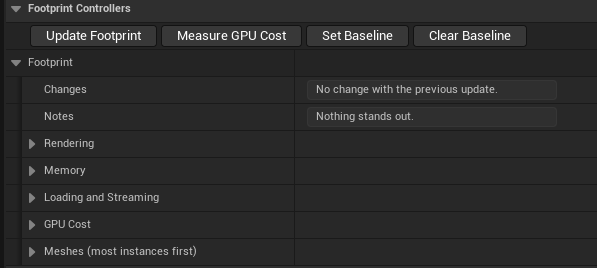
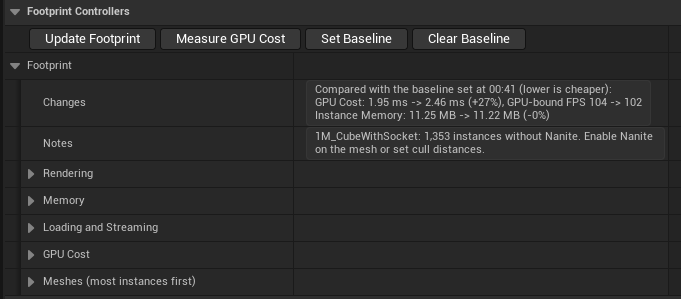
Guide: Footprint screenshots per group

diff --git a/docs/guide.html b/docs/guide.html
@@ -170,13 +170,28 @@
 <p><strong>Jitter</strong> moves each cover mesh randomly along the surface. <strong>Position Offset</strong> Min / Max: X and Y slide along the surface, Z lifts or sinks. <strong>Absolute Rotation</strong> ignores the surface's rotation. <strong>Rotation</strong> and <strong>Scale</strong> Min / Max randomize each mesh.</p>
 <p>Optimize &gt; Cover Mesh by Intent holds the cull distances, decals, wind, ray tracing, shadow and <strong>Collision</strong> switches for every entry of the layer. Cover meshes have no collision unless Collision is on.</p>
 <h2 id="footprint">Footprint</h2>
-<figure><img src="images/footprint.png" alt="Footprint Controllers: the four buttons, then Changes, Notes and the Rendering, Memory, Loading and Streaming, GPU Cost and Meshes groups." loading="lazy"><figcaption>Footprint Controllers: the four buttons, then Changes, Notes and the Rendering, Memory, Loading and Streaming, GPU Cost and Meshes groups.</figcaption></figure>
+<figure><img src="images/footprint.png" alt="Footprint after adding a mesh: Changes compares with the baseline (GPU Cost up 27%), and Notes names the mesh without Nanite." loading="lazy"><figcaption>Footprint after adding a mesh: Changes compares with the baseline (GPU Cost up 27%), and Notes names the mesh without Nanite.</figcaption></figure>
 <p>The Footprint section, under Footprint Controllers, shows what the tool made and what it costs. It updates by itself after every generate. <strong>Notes</strong> and <strong>Changes</strong> sit at the top: Notes flags likely problems, and Changes shows how far each number moved.</p>
 <h3 id="buttons">Buttons</h3>
 <div class="table"><table><thead><tr><th>Button</th><th>What it does</th></tr></thead><tbody><tr><td>Update Footprint</td><td>Recounts now.</td></tr><tr><td>Measure GPU Cost</td><td>Renders a couple of seconds from the current viewport with the tool shown, then hidden, and records the difference. Measure from the same spot before and after a change.</td></tr><tr><td>Set Baseline</td><td>Remembers the current numbers. Changes then compares every later update to them, which suits an optimize pass.</td></tr><tr><td>Clear Baseline</td><td>Forgets the baseline; Changes compares with the previous update again.</td></tr></tbody></table></div>
 <h3 id="the-numbers">The numbers</h3>
-<div class="table"><table><thead><tr><th>Group</th><th>Number</th><th>What it means</th></tr></thead><tbody><tr><td>Rendering</td><td>Instances</td><td>Mesh instances this tool spawned.</td></tr><tr><td>Rendering</td><td>Mesh Components</td><td>About one per mesh and settings combination; each is at least one draw call per pass. Fewer is better.</td></tr><tr><td>Rendering</td><td>Unique Meshes</td><td>Different mesh assets in use.</td></tr><tr><td>Rendering</td><td>Nanite / Non-Nanite Instances</td><td>Nanite stays cheap when dense. Large non-Nanite counts are the usual performance trap: enable Nanite or add cull distances.</td></tr><tr><td>Rendering</td><td>Non-Nanite Triangles (LOD 0)</td><td>The worst case up close.</td></tr><tr><td>Rendering</td><td>Shadow-Casting, WPO-Animated, Ray-Traced Instances</td><td>How many instances the matching Optimize switches leave on.</td></tr><tr><td>Rendering</td><td>Decal Actors, Other Spawned Actors</td><td>Each is a full actor. Keep decals in the hundreds, not thousands.</td></tr><tr><td>Memory</td><td>Instance Memory (MB)</td><td>Transforms, render data and collision bodies for these instances.</td></tr><tr><td>Memory</td><td>Instances With Collision</td><td>Each carries a physics body. Optimize &gt; No Collision removes them.</td></tr><tr><td>Memory</td><td>Mesh Assets (MB)</td><td>The mesh assets used, shared with anything else using them. Textures and materials are not counted.</td></tr><tr><td>Loading and Streaming</td><td>Instance Data on Disk (MB, est.)</td><td>Roughly what the level has to read when this tool loads.</td></tr><tr><td>Loading and Streaming</td><td>Mesh Files (MB, editor)</td><td>Mesh asset file sizes in the editor. Cooked builds are usually smaller.</td></tr><tr><td>Loading and Streaming</td><td>Tool Size (m)</td><td>Width and length of everything spawned. With World Partition, one big actor loads all its instances at once.</td></tr><tr><td>Loading and Streaming</td><td>Spatially Loaded, PCG Partitioned</td><td>Whether World Partition streams the tool by distance, and whether the PCG output is split into cells.</td></tr><tr><td>Loading and Streaming</td><td>Last Generate (s)</td><td>How long the last full generate took in the editor.</td></tr><tr><td>GPU Cost</td><td>GPU Cost (ms), Share of Frame (%), FPS With / Without Tool</td><td>Set by Measure GPU Cost. <strong>Measured</strong> says when, and whether the tool has changed since.</td></tr></tbody></table></div>
-<p><strong>Meshes (most instances first)</strong> lists the heaviest meshes, so you know where to start optimizing.</p>
+<h4 id="rendering">Rendering</h4>
+<figure><img src="images/footprint-rendering.png" alt="Rendering: instance, component, mesh, Nanite, triangle, shadow, wind, ray tracing and actor counts." loading="lazy"><figcaption>Rendering: instance, component, mesh, Nanite, triangle, shadow, wind, ray tracing and actor counts.</figcaption></figure>
+<div class="table"><table><thead><tr><th>Number</th><th>What it means</th></tr></thead><tbody><tr><td>Instances</td><td>Mesh instances this tool spawned.</td></tr><tr><td>Mesh Components</td><td>About one per mesh and settings combination; each is at least one draw call per pass. Fewer is better.</td></tr><tr><td>Unique Meshes</td><td>Different mesh assets in use.</td></tr><tr><td>Nanite / Non-Nanite Instances</td><td>Nanite stays cheap when dense. Large non-Nanite counts are the usual performance trap: enable Nanite or add cull distances.</td></tr><tr><td>Non-Nanite Triangles (LOD 0)</td><td>The worst case up close.</td></tr><tr><td>Shadow-Casting, WPO-Animated, Ray-Traced Instances</td><td>How many instances the matching Optimize switches leave on.</td></tr><tr><td>Decal Actors, Other Spawned Actors</td><td>Each is a full actor. Keep decals in the hundreds, not thousands.</td></tr></tbody></table></div>
+<h4 id="memory">Memory</h4>
+<figure><img src="images/footprint-memory.png" alt="Memory: Instance Memory, Instances With Collision and Mesh Assets." loading="lazy"><figcaption>Memory: Instance Memory, Instances With Collision and Mesh Assets.</figcaption></figure>
+<div class="table"><table><thead><tr><th>Number</th><th>What it means</th></tr></thead><tbody><tr><td>Instance Memory (MB)</td><td>Transforms, render data and collision bodies for these instances.</td></tr><tr><td>Instances With Collision</td><td>Each carries a physics body. Optimize &gt; No Collision removes them.</td></tr><tr><td>Mesh Assets (MB)</td><td>The mesh assets used, shared with anything else using them. Textures and materials are not counted.</td></tr></tbody></table></div>
+<h4 id="loading-and-streaming">Loading and Streaming</h4>
+<figure><img src="images/footprint-loading.png" alt="Loading and Streaming: disk size, mesh files, tool size, streaming and the last generate time." loading="lazy"><figcaption>Loading and Streaming: disk size, mesh files, tool size, streaming and the last generate time.</figcaption></figure>
+<div class="table"><table><thead><tr><th>Number</th><th>What it means</th></tr></thead><tbody><tr><td>Instance Data on Disk (MB, est.)</td><td>Roughly what the level has to read when this tool loads.</td></tr><tr><td>Mesh Files (MB, editor)</td><td>Mesh asset file sizes in the editor. Cooked builds are usually smaller.</td></tr><tr><td>Tool Size (m)</td><td>Width and length of everything spawned. With World Partition, one big actor loads all its instances at once.</td></tr><tr><td>Spatially Loaded, PCG Partitioned</td><td>Whether World Partition streams the tool by distance, and whether the PCG output is split into cells.</td></tr><tr><td>Last Generate (s)</td><td>How long the last full generate took in the editor.</td></tr></tbody></table></div>
+<h4 id="gpu-cost">GPU Cost</h4>
+<figure><img src="images/footprint-gpu.png" alt="GPU Cost after Measure GPU Cost: the tool&#x27;s cost in ms, its share of the frame, and frame time and FPS with and without it." loading="lazy"><figcaption>GPU Cost after Measure GPU Cost: the tool's cost in ms, its share of the frame, and frame time and FPS with and without it.</figcaption></figure>
+<p>Filled in by <strong>Measure GPU Cost</strong>. <strong>GPU Cost (ms)</strong> is the difference between <strong>GPU Frame With Tool</strong> and <strong>GPU Frame Without Tool</strong>, and <strong>Share of Frame</strong> is that difference as a percent of the frame. <strong>FPS With / Without Tool</strong> are the GPU-bound frame rates. <strong>Measured</strong> says when and from where, and whether the tool has changed since.</p>
+<h4 id="meshes-most-instances-first">Meshes (most instances first)</h4>
+<figure><img src="images/footprint-meshes.png" alt="Meshes, most instances first: each mesh&#x27;s count, Nanite or triangle count, and flags such as wind, shadows and collision." loading="lazy"><figcaption>Meshes, most instances first: each mesh's count, Nanite or triangle count, and flags such as wind, shadows and collision.</figcaption></figure>
+<p>Lists every mesh, heaviest first, so you know where to start optimizing. Each line gives the instance count, then what makes it costly. Some examples from the screenshot:</p>
+<ul><li><strong>fern_01_02: 5,415 instances, Nanite, 3,549 cast shadows</strong> means a dense Nanite mesh where most copies still cast shadows. Turning off Cast Shadow for small ferns is a big saving.</li><li><strong>1M_CubeWithSocket: 1,353 instances, 12 tris each (no Nanite), collision</strong> means no Nanite and every copy has collision. Notes flags this one at the top; enable Nanite or set cull distances, and turn on No Collision if nothing needs to hit it.</li><li><strong>openWorld_flower_01_02: 2,428 instances, Nanite, wind (WPO)</strong> means every copy animates in the wind. Turning off World Position Offset for distant or tiny flowers saves GPU.</li><li><strong>SM_Barrel_02_Ropes: 95 instances, 3,584 tris each (no Nanite), collision</strong> is a low count but heavy per copy without Nanite, a good candidate for enabling Nanite.</li></ul>
+<p>In the top screenshot, a baseline was set before adding the cube mesh. <strong>Changes</strong> shows GPU Cost rising from 1.95 to 2.46 ms (+27%), and <strong>Notes</strong> names the mesh responsible.</p>
 <h2 id="tips-and-troubleshooting">Tips and troubleshooting</h2>
 <h3 id="keep-it-fast">Keep it fast</h3>
 <ul><li>Turn off <strong>Cast Shadow</strong> on dense small meshes (grass, pebbles, moss). It is usually the biggest single saving.</li><li>Turn off <strong>World Position Offset</strong> and <strong>Visible in Ray Tracing</strong> on dense grass and ground cover.</li><li>Add <strong>Cull Distance Start / End</strong> to small meshes; use Nanite meshes where you can.</li><li>Use <strong>Solo</strong> to tune one layer at a time, and <strong>Work in Debug Mode</strong> while dialing in placement.</li><li>Watch <strong>Decal Actors</strong> and <strong>Max Decals</strong>: every decal is an actor.</li><li>Use <strong>Set Baseline</strong> before an optimize pass and read <strong>Changes</strong> after each tweak.</li></ul>

diff --git a/src/guide.md b/src/guide.md
@@ -452,7 +452,7 @@ Optimize > Cover Mesh by Intent holds the cull distances, decals, wind, ray trac
 
 ## Footprint
 
-![Footprint Controllers: the four buttons, then Changes, Notes and the Rendering, Memory, Loading and Streaming, GPU Cost and Meshes groups.](images/footprint.png)
+![Footprint after adding a mesh: Changes compares with the baseline (GPU Cost up 27%), and Notes names the mesh without Nanite.](images/footprint.png)
 
 The Footprint section, under Footprint Controllers, shows what the tool made and what it costs. It updates by itself after every generate. **Notes** and **Changes** sit at the top: Notes flags likely problems, and Changes shows how far each number moved.
 
@@ -467,26 +467,60 @@ The Footprint section, under Footprint Controllers, shows what the tool made and
 
 ### The numbers
 
-| Group | Number | What it means |
-| --- | --- | --- |
-| Rendering | Instances | Mesh instances this tool spawned. |
-| Rendering | Mesh Components | About one per mesh and settings combination; each is at least one draw call per pass. Fewer is better. |
-| Rendering | Unique Meshes | Different mesh assets in use. |
-| Rendering | Nanite / Non-Nanite Instances | Nanite stays cheap when dense. Large non-Nanite counts are the usual performance trap: enable Nanite or add cull distances. |
-| Rendering | Non-Nanite Triangles (LOD 0) | The worst case up close. |
-| Rendering | Shadow-Casting, WPO-Animated, Ray-Traced Instances | How many instances the matching Optimize switches leave on. |
-| Rendering | Decal Actors, Other Spawned Actors | Each is a full actor. Keep decals in the hundreds, not thousands. |
-| Memory | Instance Memory (MB) | Transforms, render data and collision bodies for these instances. |
-| Memory | Instances With Collision | Each carries a physics body. Optimize > No Collision removes them. |
-| Memory | Mesh Assets (MB) | The mesh assets used, shared with anything else using them. Textures and materials are not counted. |
-| Loading and Streaming | Instance Data on Disk (MB, est.) | Roughly what the level has to read when this tool loads. |
-| Loading and Streaming | Mesh Files (MB, editor) | Mesh asset file sizes in the editor. Cooked builds are usually smaller. |
-| Loading and Streaming | Tool Size (m) | Width and length of everything spawned. With World Partition, one big actor loads all its instances at once. |
-| Loading and Streaming | Spatially Loaded, PCG Partitioned | Whether World Partition streams the tool by distance, and whether the PCG output is split into cells. |
-| Loading and Streaming | Last Generate (s) | How long the last full generate took in the editor. |
-| GPU Cost | GPU Cost (ms), Share of Frame (%), FPS With / Without Tool | Set by Measure GPU Cost. **Measured** says when, and whether the tool has changed since. |
+#### Rendering
 
-**Meshes (most instances first)** lists the heaviest meshes, so you know where to start optimizing.
+![Rendering: instance, component, mesh, Nanite, triangle, shadow, wind, ray tracing and actor counts.](images/footprint-rendering.png)
+
+| Number | What it means |
+| --- | --- |
+| Instances | Mesh instances this tool spawned. |
+| Mesh Components | About one per mesh and settings combination; each is at least one draw call per pass. Fewer is better. |
+| Unique Meshes | Different mesh assets in use. |
+| Nanite / Non-Nanite Instances | Nanite stays cheap when dense. Large non-Nanite counts are the usual performance trap: enable Nanite or add cull distances. |
+| Non-Nanite Triangles (LOD 0) | The worst case up close. |
+| Shadow-Casting, WPO-Animated, Ray-Traced Instances | How many instances the matching Optimize switches leave on. |
+| Decal Actors, Other Spawned Actors | Each is a full actor. Keep decals in the hundreds, not thousands. |
+
+#### Memory
+
+![Memory: Instance Memory, Instances With Collision and Mesh Assets.](images/footprint-memory.png)
+
+| Number | What it means |
+| --- | --- |
+| Instance Memory (MB) | Transforms, render data and collision bodies for these instances. |
+| Instances With Collision | Each carries a physics body. Optimize > No Collision removes them. |
+| Mesh Assets (MB) | The mesh assets used, shared with anything else using them. Textures and materials are not counted. |
+
+#### Loading and Streaming
+
+![Loading and Streaming: disk size, mesh files, tool size, streaming and the last generate time.](images/footprint-loading.png)
+
+| Number | What it means |
+| --- | --- |
+| Instance Data on Disk (MB, est.) | Roughly what the level has to read when this tool loads. |
+| Mesh Files (MB, editor) | Mesh asset file sizes in the editor. Cooked builds are usually smaller. |
+| Tool Size (m) | Width and length of everything spawned. With World Partition, one big actor loads all its instances at once. |
+| Spatially Loaded, PCG Partitioned | Whether World Partition streams the tool by distance, and whether the PCG output is split into cells. |
+| Last Generate (s) | How long the last full generate took in the editor. |
+
+#### GPU Cost
+
+![GPU Cost after Measure GPU Cost: the tool's cost in ms, its share of the frame, and frame time and FPS with and without it.](images/footprint-gpu.png)
+
+Filled in by **Measure GPU Cost**. **GPU Cost (ms)** is the difference between **GPU Frame With Tool** and **GPU Frame Without Tool**, and **Share of Frame** is that difference as a percent of the frame. **FPS With / Without Tool** are the GPU-bound frame rates. **Measured** says when and from where, and whether the tool has changed since.
+
+#### Meshes (most instances first)
+
+![Meshes, most instances first: each mesh's count, Nanite or triangle count, and flags such as wind, shadows and collision.](images/footprint-meshes.png)
+
+Lists every mesh, heaviest first, so you know where to start optimizing. Each line gives the instance count, then what makes it costly. Some examples from the screenshot:
+
+- **fern_01_02: 5,415 instances, Nanite, 3,549 cast shadows** means a dense Nanite mesh where most copies still cast shadows. Turning off Cast Shadow for small ferns is a big saving.
+- **1M_CubeWithSocket: 1,353 instances, 12 tris each (no Nanite), collision** means no Nanite and every copy has collision. Notes flags this one at the top; enable Nanite or set cull distances, and turn on No Collision if nothing needs to hit it.
+- **openWorld_flower_01_02: 2,428 instances, Nanite, wind (WPO)** means every copy animates in the wind. Turning off World Position Offset for distant or tiny flowers saves GPU.
+- **SM_Barrel_02_Ropes: 95 instances, 3,584 tris each (no Nanite), collision** is a low count but heavy per copy without Nanite, a good candidate for enabling Nanite.
+
+In the top screenshot, a baseline was set before adding the cube mesh. **Changes** shows GPU Cost rising from 1.95 to 2.46 ms (+27%), and **Notes** names the mesh responsible.
 
 ## Tips and troubleshooting
 
